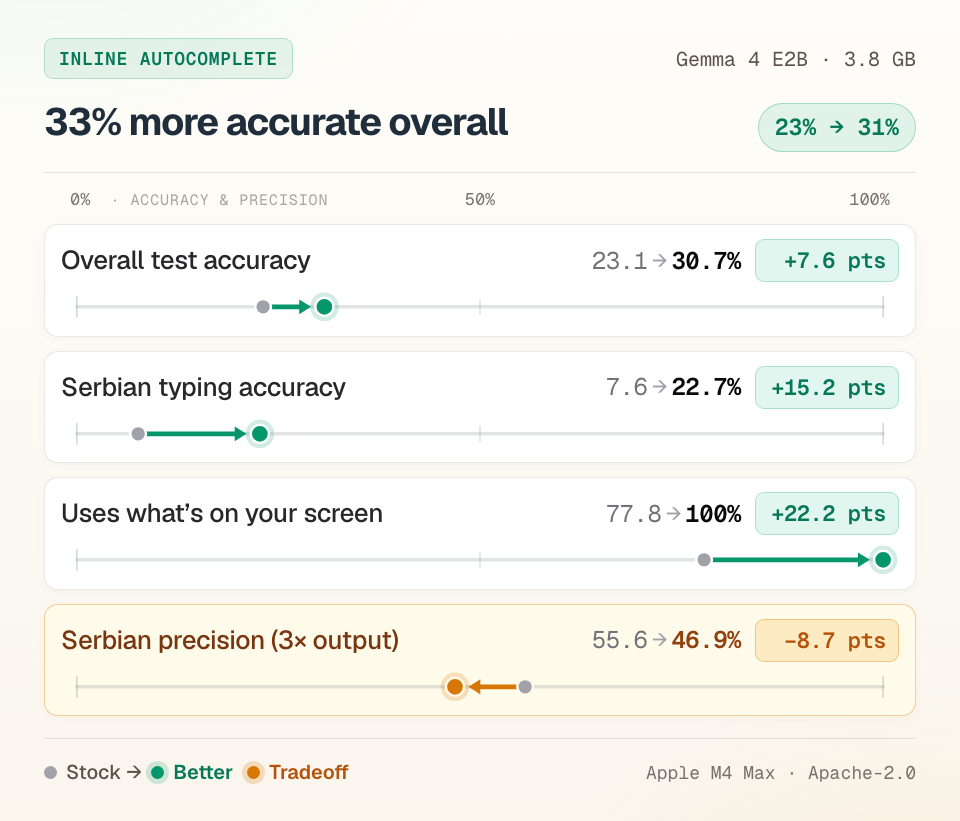
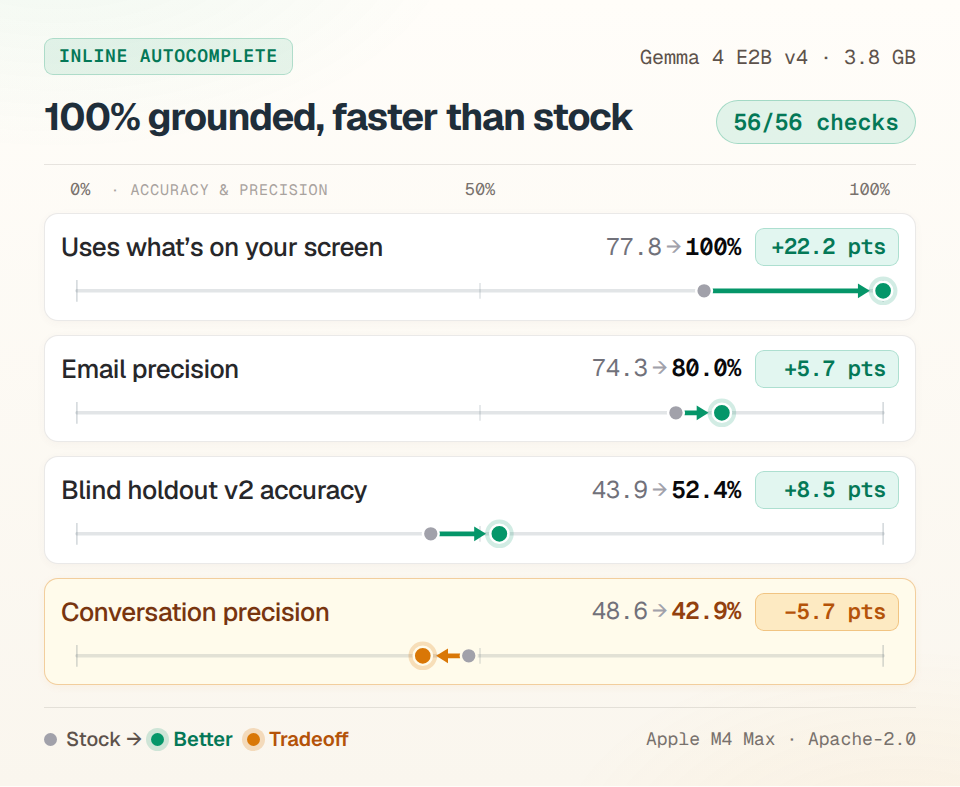
Update LokalBot 4-model fine-tuning post with new default checkpoints (#20)
* Update LokalBot 4-model fine-tuning post with Wave-3b defaults

* Update fine-tuning post and visuals for Qwen3.5 4B LokalBot v4

* Bump sitemap lastmod for fine-tuning post update

diff --git a/blog/posts/fine-tuning-lokalbot-local-models/index.html b/blog/posts/fine-tuning-lokalbot-local-models/index.html
@@ -4,7 +4,7 @@
     <meta charset="UTF-8" />
     <meta name="viewport" content="width=device-width, initial-scale=1.0" />
     <title>Fine-tuning LokalBot’s four local models in 24 hours · Field Notes</title>
-    <meta name="description" content="Stock open models struggled with Serbian notes, quiet dictation and inline autocomplete in LokalBot. I fine-tuned all four local models over a day and published the Apache-2.0 weights, along with what got worse." />
+    <meta name="description" content="Stock open models struggled with Serbian notes, quiet dictation and inline autocomplete in LokalBot. I fine-tuned all four, ran follow-up passes to fix the first round’s regressions, and promoted them to LokalBot’s new defaults." />
     <link rel="canonical" href="https://stevan.bogosavljevic.me/blog/posts/fine-tuning-lokalbot-local-models/" />
     <link rel="icon" type="image/svg+xml" href="/favicon.svg" />
     <link rel="preconnect" href="https://fonts.googleapis.com" />
@@ -12,7 +12,7 @@
     <link href="https://fonts.googleapis.com/css2?family=Google+Sans+Flex:opsz,wght@6..72,400..800&family=Newsreader:ital,opsz,wght@0,6..72,400;0,6..72,500;0,6..72,600;1,6..72,400;1,6..72,500&family=Red+Hat+Mono:wght@400;500&display=swap" rel="stylesheet" />
     <link rel="stylesheet" href="../../assets/blog.css" />
     <meta property="og:title" content="Fine-tuning LokalBot’s four local models in 24 hours" />
-    <meta property="og:description" content="Stock open models struggled with Serbian notes, quiet dictation and inline autocomplete in LokalBot. I fine-tuned all four local models over a day and published the Apache-2.0 weights." />
+    <meta property="og:description" content="Stock open models struggled with Serbian notes, quiet dictation and inline autocomplete. I fine-tuned all four, fixed the first round’s regressions, and promoted them to LokalBot’s new defaults." />
     <meta property="og:type" content="article" />
     <meta property="og:url" content="https://stevan.bogosavljevic.me/blog/posts/fine-tuning-lokalbot-local-models/" />
     <meta property="og:image" content="https://stevan.bogosavljevic.me/blog/posts/fine-tuning-lokalbot-local-models/og.jpg" />
@@ -60,9 +60,9 @@
     <main id="content">
       <section class="hero hero--post" aria-labelledby="post-title">
         <div class="hero-inner">
-          <p class="eyebrow">Nov 21, 2026 · AI · Engineering · 8 min read</p>
+          <p class="eyebrow">Nov 21, 2026 (updated Nov 22) · AI · Engineering · 9 min read</p>
           <h1 id="post-title" class="post-hero-title">Fine-tuning LokalBot’s four local models in 24 hours</h1>
-          <p class="hero-subtitle">Stock open models struggled with Serbian notes, quiet dictation and inline autocomplete. I fine-tuned all four over a day and published the weights, along with what got worse.</p>
+          <p class="hero-subtitle">Stock open models struggled with Serbian notes, quiet dictation and inline autocomplete. I fine-tuned all four, ran follow-up passes to fix the first round’s regressions, and promoted them to LokalBot’s new defaults.</p>
         </div>
       </section>
 
@@ -71,6 +71,7 @@
           <aside class="post-meta-card" aria-label="Post metadata">
             <div class="metadata">
               <span>Published Nov 21, 2026</span>
+              <span>Updated Nov 22, 2026</span>
               <span>AI · Engineering</span>
             </div>
             <div class="post-actions">
@@ -88,24 +89,24 @@
             <div class="example-box">
               <p><span class="example-label">Transcript (Serbian / Montenegrin Cyrillic)</span>Јелена: „Договорили смо се да у четвртак у 14:00 CET пустимо нову верзију на пет одсто саобраћаја, под условом да провјера поновног учитавања прође. Нећемо је пустити за викенд.”</p>
               <p><span class="example-label is-bad">Stock Qwen3.5 4B</span>Согласовано запуск новой версии на 5% трафика в четверг в 14:00 CET при условии проверки повторного загрузки, без запуска в выходные. Decisions came back as <code>None</code>, with 20 Russian-drift hits across the notes.</p>
-              <p><span class="example-label is-good">Qwen3.5-4B-LokalBot-v2</span>Пуштање нове верзије на 5% саобраћаја у четвртак у 14:00 CET, под условом да провјера поновног учитавања прође. Saved as a decision, with zero Russian drift.</p>
+              <p><span class="example-label is-good">Qwen3.5-4B-LokalBot-v2</span>Пуштање нове верзије на 5% саобраћаја у четвртак у 14:00 CET, под условом да провјера поновног учитавања прође. Saved as a decision, with zero Russian drift (<code>v4</code> keeps zero Russian drift and catches 8 decisions across the six replay fixtures).</p>
             </div>
 
-            <p>The other models had their own weak spots. Stock <code>Qwen3.5 4B</code> recalled 0 of 13 Serbian personal facts (translating them into English instead) and caught decisions on only 2 of 8 real decision-bearing meetings. Stock <code>Gemma 4 E2B</code> dropped from 25.3% autocomplete accuracy in English to 7.6% in Serbian Latin and 8.6% in Cyrillic, and sometimes suggested outdated saved facts over text that was right there in the active window. On 24 silence and room-noise clips carrying a custom vocabulary prompt (<code>Mila Novak, Orion Launch, Acme.</code>), stock <code>Qwen3-ASR 1.7B</code> echoed those names or invented words on 22 of them. And the smaller <code>0.6B</code> speech model hit 52.3% word error rate on South Slavic speech and 49.2% on mixed-language clips.</p>
+            <p>The other models had their own weak spots. Stock <code>Qwen3.5 4B</code> recalled 0 of 13 Serbian personal facts (translating them into English instead) and caught decisions on only 6 of 19 real decision-bearing meetings. Stock <code>Gemma 4 E2B</code> dropped from 25.3% autocomplete accuracy in English to 7.6% in Serbian Latin and 8.6% in Cyrillic, and sometimes suggested outdated saved facts over text that was right there in the active window. On 24 silence and room-noise clips carrying a custom vocabulary prompt (<code>Mila Novak, Orion Launch, Acme.</code>), stock <code>Qwen3-ASR 1.7B</code> echoed those names or invented words on 22 of them. And the smaller <code>0.6B</code> speech model hit 52.3% word error rate on South Slavic speech and 49.2% on mixed-language clips.</p>
 
-            <p>Over about 18.5 hours I fine-tuned all four models (<code>Qwen3.5 4B</code>, <code>Gemma 4 E2B</code>, <code>Qwen3-ASR 1.7B</code> and <code>Qwen3-ASR 0.6B</code>), uploaded the Apache-2.0 GGUFs to Hugging Face, and opened <a href="https://github.com/stevyhacker/LokalBot/pull/557">PR #557</a> and <a href="https://github.com/stevyhacker/LokalBot/pull/561">PR #561</a> to wire them into LokalBot. Think v2 and Gemma v3 are opt-in alongside the stock defaults, while PR #561 switches the default Transcribe pins.</p>
+            <p>Over an initial 18.5 hours I fine-tuned all four models (<code>Qwen3.5 4B</code>, <code>Gemma 4 E2B</code>, <code>Qwen3-ASR 1.7B</code> and <code>Qwen3-ASR 0.6B</code>) and uploaded the Apache-2.0 GGUFs to Hugging Face. At that point only the two speech models were ready to replace the defaults. Think <code>v2</code> triggered too many validator retries on noisy real meetings, and Autocomplete <code>v3</code> gave up two small saved-memory checks and some email precision. On Nov 22 I ran follow-up passes on Colab Pro+ GPUs to fix both (<code>Gemma 4 E2B v4</code> for autocomplete, then <code>Qwen3.5 4B v3</code> and <code>v4</code> after <code>v3</code> dropped too many real action items), and updated <a href="https://github.com/stevyhacker/LokalBot/pull/561">PR #561</a> (superseding <a href="https://github.com/stevyhacker/LokalBot/pull/557">#557</a>) to make all four the new built-in defaults, with a dismissible upgrade prompt for existing users still on the stock files.</p>
 
-            <p>Before training anything, I set a few constraints. Every training set had to use open-license data only (Apache-2.0, ODC-By, CC0 and CC-BY-4.0, plus synthetic examples from open-weight teachers), with no private user recordings or meetings, no CC-BY-SA, and no non-commercial datasets. Holdouts were frozen ahead of time and checked for n-gram and entity overlap. Most task-specific eval sets are self-built or synthetic alongside public splits from QMSum, FLEURS, VoxPopuli, ParlaSpeech-RS and AMI, and the 12 local real-meeting references come from a frontier model rather than human labels.</p>
+            <p>Before training anything, I set a few constraints. Every training set had to use open-license data only (Apache-2.0, ODC-By, CC0 and CC-BY-4.0, plus synthetic examples from open-weight teachers), with no private user recordings or meetings, no CC-BY-SA, and no non-commercial datasets. Holdouts were frozen ahead of time and checked for n-gram and entity overlap. Most task-specific eval sets are self-built or synthetic alongside public splits from QMSum, FLEURS, VoxPopuli, ParlaSpeech-RS and AMI, and the 28 local real-meeting references come from a frontier model rather than human labels.</p>
 
-            <p>All numbers below were measured on an Apple M4 Max through the real inference paths: LokalBot’s unmodified macOS Release binary for Gemma 4, Swift <code>MeetingNotesReplayTests</code> for the meeting replays, and harnesses hitting our vendored <code>llama.cpp v1.0.0</code> Metal server for memory retention, SparkX26 and ASR.</p>
+            <p>All numbers below went through LokalBot’s real inference paths and validators. Gemma 4 (LokalBot’s unmodified macOS Release binary) and both Qwen3-ASR models (vendored <code>llama.cpp v1.0.0</code> Metal server) were measured on an Apple M4 Max. For <code>Qwen3.5 4B</code> I ran the full stock, <code>v3</code> and <code>v4</code> comparison on the same Colab G4 GPU right after training, pointing LokalBot’s Swift <code>MeetingNotesReplayTests</code>, memory retention and SparkX26 harnesses at the same <code>llama.cpp</code> server build over an SSH tunnel so I could iterate on the expanded 28-meeting eval in minutes.</p>
 
             <h2>What got worse</h2>
 
-            <p>None of the four models is a pure upgrade on every axis. Before getting into the recipes, here are the regressions I kept and documented in each model card:</p>
+            <p>None of the four shipped defaults is a pure upgrade on every axis. Before getting into the recipes, here are the remaining tradeoffs documented in each model card:</p>
 
             <ul>
-              <li><code>Qwen3.5 4B v2</code> is more eager on noisy real-world transcripts, which triggers more quote-mismatch validator retries (72 rejections and 21 repairs vs. 40 and 19 for stock, and 33 and 10 for v1). On the 12 local meetings, stock still has higher action recall against the frontier reference (50.0% vs. 47.1%), v1 resolves a higher share of owners (75.8% vs. 67.4%), and v2 outputs 24 decisions and 95 actions against 19 and 70 in the reference, so it over-extracts a bit. On SparkX26 it passes 8/12 cases vs. 7/12 for stock, but scores 36/43 individual fields vs. 37/43.</li>
-              <li><code>Gemma 4 E2B v3</code> drops Serbian Latin precision from 55.6% to 46.9% as coverage climbs from 13.6% to 48.5%. Median boundary latency goes from 20.6 ms to 26.6 ms (typing p95 improves from 95.6 ms to 87.2 ms). Email precision recovers from 59.5% in v2 to 70.7% in v3, still short of stock’s 74.3%, even though email accuracy rises from 50.0% to 55.8%. Two tiny memory checks (<code>memory_dev</code> at 5/6 and <code>memory_rel_heldout</code> at 4/5) remain one conservative abstention below stock, with zero false retrievals and 12/12 on <code>memory_heldout</code>.</li>
+              <li><code>Qwen3.5 4B v4</code> fixed <code>v3</code>’s action-item collapse on real meetings (0 zero-action collapses vs. 6 in <code>v3</code>, lifting 28-meeting action recall to 52.7% vs. 46.7% for stock and 31.3% for <code>v3</code>), kept 19/19 decision-bearing meetings, cut validator rejections by 62% vs. stock (71 vs. 185), and ran 30% faster (11.8 s vs. 17.0 s median on G4). The tradeoffs compared with <code>v3</code> come from saving more actions: <code>v4</code> emits 227 actions at 37.0% precision (level with stock’s 37.1%, down from <code>v3</code>’s 45.9% when it only saved 109), picks up 1 validator rejection on Golden6 (vs. 0 in <code>v3</code> and 3 in stock), and gives up 1 point on English memory retention (117/120 overall vs. 118/120 in <code>v3</code>, while reaching 13/13 on Serbian).</li>
+              <li><code>Gemma 4 E2B v4</code> restored 56/56 across all memory and visible-context suites, lifted email precision to 80.0% (vs. 74.3% stock), kept wrong suggestions flat at 182 (vs. 181 stock), and ran faster than stock (20.2 ms median boundary, 80.0 ms typing p95). Tradeoffs: conversation precision drops from 48.6% to 42.9%, formatting precision from 61.5% to 57.1%, and overall coverage stays close to stock (48.4% vs. 58.6% in <code>v3</code>), so short-prompt Serbian recall on the Engine set is lower than in <code>v3</code> (12.1% vs. 22.7%, though <code>v4</code> beats <code>v3</code> on blind <code>fresh_holdout_v1</code> Serbian Latin at 76.7% vs. 73.3%). Both <code>v4</code> and <code>v3</code> stay in the Hugging Face repo.</li>
               <li><code>Qwen3-ASR 1.7B v3</code> returns empty transcripts on 2 of 200 very low-SNR far-field AMI-400 SDM clips (stock returns 0/200 empty). Word error rate across the five evaluated guard languages (<code>en/de/fr/es/ru</code>) ticks up 0.18 points (4.35% to 4.53%). Because AMI SDM train is in the training mix, the −1.67 point gain on AMI-400 SDM is in-domain.</li>
               <li><code>Qwen3-ASR 0.6B v1</code> regresses on the small 25-clip AMI holdout (+2.54 points close-mic, +0.58 far-field) before coming out slightly ahead on the 8× larger 400-clip AMI suite (−0.15 and −0.34 points, with 1/200 empty far-field). On AMI-400 it runs at the same speed as stock (51.3× vs. 51.9× real-time); the faster 52.7× vs. 39.7× number on holdout mostly comes from shorter outputs once the South Slavic script drift stopped.</li>
             </ul>
@@ -122,18 +123,22 @@
 
             <figure class="scorecard-fig">
               <a href="scorecard-think.png" title="Open full size">
-                <img src="scorecard-think.png" alt="Qwen3.5 4B fine-tune vs. stock on Apple M4 Max: personal facts kept right up from 66.7% to 95.8%, Serbian facts recalled 0% to 92.3%, meetings with decisions caught 25% to 100%, with action items caught on real meetings dipping from 50.0% to 47.1%." width="960" height="821" loading="lazy" decoding="async" />
+                <img src="scorecard-think.png" alt="Qwen3.5 4B v4 fine-tune vs. stock on the same llama.cpp build: personal facts kept right up from 69.2% to 97.5%, Serbian facts recalled 0% to 100%, meetings with decisions caught 31.6% to 100%, and action items caught on 28 real meetings up from 46.7% to 52.7%." width="960" height="821" loading="lazy" decoding="async" />
               </a>
-              <figcaption>Qwen3.5 4B LokalBot v2 vs. stock on Apple M4 Max. Three main gains in green and one regression in amber on a 0–100% scale.</figcaption>
+              <figcaption>Qwen3.5 4B LokalBot v4 vs. stock on the same Colab G4 llama.cpp server and Swift MeetingNotesReplayTests harness. Across the 28 real meetings, v4 also cut validator rejections from 185 to 71, finished 28/28 (stock timed out on 1), and cut median latency from 17.0 s to 11.8 s.</figcaption>
             </figure>
 
             <p>LokalBot’s Think tasks want two things that usually fight each other in a 4B model: enough judgment to decide which facts are worth saving and keep Serbian Cyrillic out of Russian, and fast JSON extraction with no chain-of-thought tokens at runtime.</p>
 
-            <p>To get both, I ran <code>Qwen3.6-35B-A3B</code> (<code>UD-Q4_K_XL</code>, Apache-2.0) with <code>enable_thinking=True</code> so the 35B MoE teacher could reason through each example, then checked every output with LokalBot’s schema, verbatim-quote and grounding validators. Only outputs that passed became direct <code>enable_thinking=False</code> training targets for the 4B student. The v2 set had 1,067 verified examples (1,014 train, 53 val) mixing <code>pszemraj/qmsum-cleaned</code> (excluding the AMI eval series), synthetic English and Serbian meetings, repair traces, Personal Context memory and hard negatives, Day Digest segments, multi-step Ask tool calls, and 180 general instruction rows from <code>allenai/tulu-3-sft-mixture</code> (ODC-By).</p>
+            <p>To get both, I ran <code>Qwen3.6-35B-A3B</code> (<code>UD-Q4_K_XL</code>, Apache-2.0) with <code>enable_thinking=True</code> so the 35B MoE teacher could reason through each example, then checked every output with LokalBot’s schema, verbatim-quote and grounding validators. Only outputs that passed became direct <code>enable_thinking=False</code> training targets for the 4B student. Qwen3.5 mixes regular attention layers with Gated DeltaNet linear-attention layers, so I attached bf16 LoRA (<code>r=32</code>, <code>alpha=64</code>, <code>lr=1.0e-4</code>, 2 epochs) to all 248 <code>language_model</code> linear projections, including DeltaNet’s <code>in_proj_qkv/z/a/b</code> and <code>out_proj</code>, leaving the vision tower untouched.</p>
 
-            <p>Qwen3.5 mixes regular attention layers with Gated DeltaNet linear-attention layers, so I attached bf16 LoRA (<code>r=32</code>, <code>alpha=64</code>, <code>lr=1.0e-4</code>, 2 epochs) to all 248 <code>language_model</code> linear projections, including DeltaNet’s <code>in_proj_qkv/z/a/b</code> and <code>out_proj</code>, leaving the vision tower untouched. After merging in fp32, converting to F16 GGUF, and running a 64-chunk bilingual imatrix (English, Serbian Latin and Cyrillic, plus LokalBot JSON), <code>Q4_K_M</code> came out to <code>2,741,241,920</code> bytes, the exact same byte count as stock.</p>
+            <p>The first pass (<code>v1</code>) fixed decisions (3/6 to 6/6 on Golden6, 2/8 to 8/8 on real meetings), Serbian memory recall (0/13 to 12/13) and Russian drift (20 to 0), but got timid on multi-speaker action items (27 down to 17 on Golden6) and saved 7 unwanted English memory items. For <code>v2</code> (1,067 rows) I added 78 action-dense meetings and 65 hard-negative memory rows. Memory retention climbed to 115/120 (95.8%, 1 unwanted), English useful recall hit 94.2%, and Golden6 actions recovered to 34. On the 12 noisy real meetings, though, <code>v2</code> hit 72 validator rejections and 21 repair calls (up from 40 and 19 for stock).</p>
 
-            <p>The first pass (<code>v1</code>) fixed decisions (3/6 to 6/6 on Golden6, 2/8 to 8/8 on real meetings), Serbian memory recall (0/13 to 12/13) and Russian drift (20 to 0), but it got timid on multi-speaker action items (27 down to 17 on Golden6) and saved 7 unwanted English memory items. For <code>v2</code> I added 78 action-dense meetings and 65 hard-negative memory rows. Memory retention climbed to 115/120 (95.8%, 1 unwanted item), English useful recall hit 94.2% (above stock <code>Qwen3.5 9B</code>’s 71.2%), and Golden6 actions recovered to 34, with the higher retry rate on noisy meetings noted above. Both checkpoints live on <a href="https://huggingface.co/stevyhacker/Qwen3.5-4B-LokalBot-GGUF">Hugging Face</a>.</p>
+            <p>Checking the training code turned up four specific bugs behind those 72 rejections. The repair training prompt used plain bullet text while LokalBot’s Swift recovery loop sends JSON <code>Validation feedback:</code>, so <code>v2</code> had never seen the real repair format. When the teacher paraphrased a quote, the distillation script fell back to pasting the entire turn. Synthetic meetings forced 5 to 7 actions each and included non-English questions marked as commitments, which LokalBot’s validator always rejects. And an over-strict Cyrillic filter had left only 3 Serbian Cyrillic meetings in <code>v2</code>.</p>
+
+            <p>For <code>v3</code> I compiled LokalBot’s production Swift evidence validator into a standalone CLI and ran every distilled meeting and repair trace through it, raising <code>max_length</code> to 10,240 and rebuilding the dataset with 122 Serbian Cyrillic meetings and 220 real on-policy JSON repair traces (including one-call <code>basis="unclear"</code> exits). My first <code>v3</code> run swung too far toward silence (12.9% real-meeting action recall) because 42.7% of the long QMSum chunks were empty and a script bug wiped valid actions on zero-action bands. Fixing that bug and balancing long chunks (1,870 Swift-verified rows) followed by an fp32 merge at <code>scale=0.85</code> got <code>v3</code> to 118/120 memory retention, zero rejections on Golden6, and an 85% drop in validator rejections on the 12 real meetings. Action recall on real meetings was still way below stock, though: 31.3% vs. 46.7% once I expanded the private real-meeting eval from 12 to 28 meetings, with <code>v3</code> returning zero actions on 6 actionable meetings.</p>
+
+            <p>Inspecting those 6 zero-action meetings showed a simple distribution mismatch. Every synthetic meeting in <code>v3</code> had a confirmed <code>me</code> speaker and named aliases like <code>Ana</code> and <code>Marko</code>. Most real recorded meetings in LokalBot use generic diarized labels (<code>them</code>, <code>them 1..8</code>, <code>them unclear</code>, <code>local</code>, <code>local 1..3</code>, <code>local unclear</code>) and often have no confirmed <code>me</code> speaker at all. Paired with too many empty training chunks, <code>v3</code> had learned to emit <code>actions: []</code> whenever the speaker roster looked generic. For <code>v4</code> I doubled the Swift-verified dataset to 4,117 rows (2,005 meetings with 9,192 verified actions and a 1.4% zero-action rate, including 487 unnamed no-<code>me</code> diarized meetings, 727 long chunks over 6,000 characters, and 232 Serbian Cyrillic meetings with zero empty rows, plus 240 Swift repair traces, 964 memory rows, 338 Ask tool traces, 170 Day Digest rows and 400 Tulu-3 replay rows) and trained on a Colab G4 GPU (<code>r=32</code>, <code>alpha=64</code>, <code>dropout=0.10</code>, <code>weight_decay=0.05</code>, <code>lr=6.0e-5</code>, 1.5 epochs) with an fp32 merge at <code>scale=1.0</code> and a 64-chunk bilingual EN/SR/JSON imatrix (<code>Qwen3.5-4B-LokalBot-v4-Q4_K_M.gguf</code>, <code>2,741,241,952</code> bytes). On the 28-meeting eval, <code>v4</code> jumped to 52.7% action recall (79/150 vs. 46.7% stock and 31.3% <code>v3</code>, and 54.3% vs. 51.4% stock on the original 12-meeting slice) with zero empty-action collapses, 28/28 completed (stock timed out on 1), 19/19 decision meetings, 71 rejections (vs. 185 stock), and 11.8 s median latency (vs. 17.0 s stock). Memory retention stayed at 117/120 (50/52 English, 13/13 Serbian with 0 unwanted), SparkX26 held at 9/12 (39/43 fields, 6/6 tools, multi-step intact), and Golden6 finished with 8 decisions and zero Russian drift. All four checkpoints live on <a href="https://huggingface.co/stevyhacker/Qwen3.5-4B-LokalBot-GGUF">Hugging Face</a>.</p>
 
             <details>
               <summary>See the full Qwen3.5 4B numbers</summary>
@@ -141,56 +146,62 @@
                 <table>
                   <thead>
                     <tr>
-                      <th>Suite (Apple M4 Max · <code>llama-server v1.0.0</code>)</th>
+                      <th>Suite (Colab G4 · <code>llama-server</code>)</th>
                       <th class="num">Stock 4B</th>
-                      <th class="num">LokalBot v2</th>
-                      <th class="num">Change</th>
+                      <th class="num">LokalBot v3</th>
+                      <th class="num">LokalBot v4</th>
+                      <th class="num">v4 vs. Stock</th>
                     </tr>
                   </thead>
                   <tbody>
                     <tr>
-                      <td>Memory Retention — English (96 cases, 52 gold)</td>
-                      <td class="num">70/96 (53.8% recall, 3 unwanted)</td>
-                      <td class="num">92/96 (94.2% recall, 1 unwanted)</td>
-                      <td class="num">+22.9 pp (+40.4 pp recall)</td>
+                      <td>Memory Retention (English, 96 cases, 52 gold)</td>
+                      <td class="num">73/96 (59.6% rec, 3 unw)</td>
+                      <td class="num">95/96 (100% rec, 1 unw)</td>
+                      <td class="num">93/96 (96.2% rec, 1 unw)</td>
+                      <td class="num">+20.8 pp (+36.5 pp rec)</td>
                     </tr>
                     <tr>
-                      <td>Memory Retention — Serbian (24 cases, 13 gold)</td>
-                      <td class="num">10/24 (0/13 recall, 9 unwanted)</td>
-                      <td class="num">23/24 (12/13 recall, 0 unwanted)</td>
-                      <td class="num">+92.3 pp recall</td>
+                      <td>Memory Retention (Serbian, 24 cases, 13 gold)</td>
+                      <td class="num">10/24 (0/13 rec, 9 unw)</td>
+                      <td class="num">23/24 (12/13 rec, 0 unw)</td>
+                      <td class="num">24/24 (13/13 rec, 0 unw)</td>
+                      <td class="num">+100 pp rec (24/24)</td>
                     </tr>
                     <tr>
                       <td>SparkX26 Guard (12 JSON / 43 fields · 6 tools)</td>
-                      <td class="num">7/12 (37/43) · 6/6 · 0.58 s</td>
-                      <td class="num">8/12 (36/43) · 6/6 · 0.52 s</td>
-                      <td class="num">+1 JSON (−1 field)</td>
+                      <td class="num">8/12 (38/43) · 6/6 · 0.18 s</td>
+                      <td class="num">9/12 (39/43) · 6/6 · 0.14 s</td>
+                      <td class="num">9/12 (39/43) · 6/6 · 0.14 s</td>
+                      <td class="num">+1 JSON (+1 field)</td>
                     </tr>
                     <tr>
                       <td>Golden6 Swift Replay (6 synthetic meetings)</td>
-                      <td class="num">27 act · 3/6 dec · 20 RU · 10.4 s</td>
-                      <td class="num">34 act · 6/6 dec · 0 RU · 9.8 s</td>
-                      <td class="num">+7 actions, 0 drift</td>
+                      <td class="num">31 act · 5 dec · 3 rej · 16 RU · 5.4 s</td>
+                      <td class="num">32 act · 7 dec · 0 rej · 0 RU · 3.8 s</td>
+                      <td class="num">29 act · 8 dec · 1 rej · 0 RU · 3.7 s</td>
+                      <td class="num">+3 dec, 0 drift</td>
                     </tr>
                     <tr>
-                      <td>12 Real Meetings (frontier ref: 19 dec / 8 mtgs, 70 act)</td>
-                      <td class="num">5 dec (2/8) · 50.0% rec · 33.1 s</td>
-                      <td class="num">24 dec (8/8) · 47.1% rec · 32.3 s</td>
-                      <td class="num">8/8 dec; 72 vs 40 retries</td>
+                      <td>28 Real Meetings (19 dec mtgs, 150 ref act)</td>
+                      <td class="num">27/28 · 6/19 dec · 46.7% rec · 185 rej · 17.0 s</td>
+                      <td class="num">28/28 · 19/19 dec · 31.3% rec (6 zero) · 27 rej · 9.5 s</td>
+                      <td class="num">28/28 · 19/19 dec · 52.7% rec (0 zero) · 71 rej · 11.8 s</td>
+                      <td class="num">+6.0 pp rec, 19/19 dec, −62% rej</td>
                     </tr>
                   </tbody>
                 </table>
               </div>
-              <p class="table-note">Full stock / v1 / v2 table and SHA-256 checksums are in <a href="https://huggingface.co/stevyhacker/Qwen3.5-4B-LokalBot-GGUF"><code>stevyhacker/Qwen3.5-4B-LokalBot-GGUF</code></a>.</p>
+              <p class="table-note">On the original 12-meeting subset (70 ref actions), action recall is 54.3% (38/70) for v4 vs. 51.4% (36/70) for stock and 31.4% (22/70) for v3. Full tables and SHA-256 checksums are in <a href="https://huggingface.co/stevyhacker/Qwen3.5-4B-LokalBot-GGUF"><code>stevyhacker/Qwen3.5-4B-LokalBot-GGUF</code></a>.</p>
             </details>
 
             <h2>Autocomplete: Gemma 4 E2B</h2>
 
             <figure class="scorecard-fig">
               <a href="scorecard-autocomplete.png" title="Open full size">
-                <img src="scorecard-autocomplete.png" alt="Gemma 4 E2B fine-tune vs. stock on Apple M4 Max: overall test accuracy up from 23.1% to 30.7%, Serbian typing accuracy 7.6% to 22.7%, active-window grounding 77.8% to 100%, with Serbian precision dipping from 55.6% to 46.9% as output tripled." width="960" height="821" loading="lazy" decoding="async" />
+                <img src="scorecard-autocomplete.png" alt="Gemma 4 E2B v4 fine-tune vs. stock on Apple M4 Max: screen grounding up from 77.8% to 100% (56/56 across all memory and visible-context checks), email precision 74.3% to 80.0%, blind holdout v2 accuracy 43.9% to 52.4%, with conversation precision dipping from 48.6% to 42.9%." width="960" height="787" loading="lazy" decoding="async" />
               </a>
-              <figcaption>Gemma 4 E2B LokalBot v3 vs. stock through LokalBot’s macOS Release binary.</figcaption>
+              <figcaption>Gemma 4 E2B LokalBot v4 (default) vs. stock through LokalBot’s macOS Release binary. Overall Engine accuracy moves from 23.1% to 25.3% (+17 right for +1 wrong shown) at 20.2 ms median boundary latency.</figcaption>
             </figure>
 
             <p>Inline autocomplete only shows a suggestion when the top token crosses a confidence threshold. Plain SFT makes logits sharper everywhere, which makes the model overconfident and floods the editor with bad guesses.</p>
@@ -201,7 +212,9 @@
 
             <p>I then had Claude Opus compare 50 randomized dev pairs where <code>v2-PLE</code> and stock differed, without model labels. It preferred <code>v2-PLE</code> overall (27 to 9, with 14 ties; 22–5–5 under production gates), but kept pointing out bad email completions. Checking the benchmark showed email precision had dropped from 74.3% to 59.5%, and two small memory sets had slipped by one case each.</p>
 
-            <p>Printing a few raw rows from the v2 training file showed why. The <code>email_calib_kl_en</code> slice had pulled in raw FineWeb pages with no spam filter, so SEO and adult spam starting with <code>Subject:</code> had poisoned email calibration. On top of that, the training mix had 681 <code>Visible + Memory</code> override rows against only 126 standalone <code>Memory-only</code> rows (a 5.4× skew). For <code>v3</code> I dropped 309 bad rows, added 750 clean <code>Subject:</code> anchors, 650 standalone memory recall rows, 250 memory distractor anchors and 400 Serbian calibration rows, raised ungrounded KL from 0.45 to 0.52, and quantized with a bilingual EN/SR imatrix at merge scale 1.15. By step 1,156 all five validation buckets improved top-1 accuracy and lowered confident-wrong rate while holding Serbian Latin mean top-1 probability steady at stock’s 0.538. Email rose to 55.77% accuracy and 70.7% precision, while the two small memory sets stayed one abstention below stock. Weights live in <a href="https://huggingface.co/stevyhacker/Gemma-4-E2B-LokalBot-GGUF"><code>stevyhacker/Gemma-4-E2B-LokalBot-GGUF</code></a>.</p>
+            <p>Printing a few raw rows from the v2 training file showed why. The <code>email_calib_kl_en</code> slice had pulled in raw FineWeb pages with no spam filter, so SEO and adult spam starting with <code>Subject:</code> had poisoned email calibration. On top of that, the training mix had 681 <code>Visible + Memory</code> override rows against only 126 standalone <code>Memory-only</code> rows (a 5.4× skew). For <code>v3</code> I dropped 309 bad rows, added 750 clean <code>Subject:</code> anchors, 650 standalone memory recall rows, 250 memory distractor anchors and 400 Serbian calibration rows, raised ungrounded KL from 0.45 to 0.52, and quantized with a bilingual EN/SR imatrix at merge scale 1.15. Engine accuracy climbed to 30.71% (22.7% Serbian Latin, 82.5% on <code>fresh_holdout_v1</code>) and email recovered to 55.77% accuracy and 70.7% precision, but wrong suggestions rose from 181 to 220 and two small memory sets stayed one abstention below stock (24/26).</p>
+
+            <p>Looking into why <code>v3</code> still missed those memory cases caught two trainer bugs: bodies under 20 tokens were silently dropped (818 targeted rows lost), and the first 4 to 16 body tokens were masked from both cross-entropy and KL, leaving early sentence positions unanchored. For <code>v4</code> I dropped the prefaced minimum length to 6 tokens, ran Forward KL from body token 0 on every row, replaced the chatty synthetic memory templates with diverse <code>kl_only=True</code> standalone memory and short chat/formatting anchors, and kept early unprefaced tokens on the blended 26B teacher (an intermediate run anchored them strictly to stock E2B and pulled short-prompt recall down too far). Merging at <code>scale=1.0</code> without temperature folding (testing <code>T=1.1</code> after verifying Gemma 4’s multiplicative RMSNorm scale math hurt precision) produced the default-safe <code>v4</code> checkpoint: 56/56 across all memory and visible-context suites, 80.0% email precision, 25.25% overall Engine accuracy and 52.23% precision with 199 right and 182 wrong (vs. 182 right and 181 wrong for stock), 76.7% on blind <code>fresh_holdout_v1</code> Serbian Latin, 52.4% vs. 43.9% on a newly minted 82-case <code>fresh_holdout_v2</code>, and faster latency than stock (20.2 ms median / 80.0 ms typing p95). LokalBot now defaults to <code>v4</code>; <code>v3</code> stays in <a href="https://huggingface.co/stevyhacker/Gemma-4-E2B-LokalBot-GGUF"><code>stevyhacker/Gemma-4-E2B-LokalBot-GGUF</code></a> if you prefer higher completion volume over stock-level restraint.</p>
 
             <details>
               <summary>See the full Gemma 4 E2B numbers</summary>
@@ -211,7 +224,7 @@
                     <tr>
                       <th>Benchmark (LokalBot macOS Release binary)</th>
                       <th class="num">Stock i1-Q6_K</th>
-                      <th class="num">v3 (scale 1.15, biling)</th>
+                      <th class="num">v4 (default, s=1.0)</th>
                       <th class="num">Change</th>
                     </tr>
                   </thead>
@@ -219,38 +232,32 @@
                     <tr>
                       <td>Engine Overall (788 checkpoints) acc / prec</td>
                       <td class="num">23.10% / 50.1%</td>
-                      <td class="num">30.71% / 52.4%</td>
-                      <td class="num">+7.61 / +2.24 pp</td>
+                      <td class="num">25.25% / 52.2%</td>
+                      <td class="num">+2.15 / +2.09 pp</td>
+                    </tr>
+                    <tr>
+                      <td>Engine Correct / Wrong shown</td>
+                      <td class="num">182 / 181</td>
+                      <td class="num">199 / 182</td>
+                      <td class="num">+17 right / +1 wrong</td>
                     </tr>
                     <tr>
                       <td>Email (52) acc / prec</td>
                       <td class="num">50.00% / 74.3%</td>
-                      <td class="num">55.77% / 70.7%</td>
-                      <td class="num">+5.77 pp acc (−3.6 pp prec)</td>
+                      <td class="num">53.85% / 80.0%</td>
+                      <td class="num">+3.85 / +5.7 pp</td>
                     </tr>
                     <tr>
-                      <td>Long-Context (47) acc / prec</td>
-                      <td class="num">19.15% / 33.3%</td>
-                      <td class="num">31.91% / 41.7%</td>
-                      <td class="num">+12.76 / +8.4 pp</td>
-                    </tr>
-                    <tr>
-                      <td>Serbian Latin (66) acc / prec</td>
-                      <td class="num">7.58% / 55.6%</td>
-                      <td class="num">22.73% / 46.9%</td>
-                      <td class="num">3.0× acc (−8.7 pp prec)</td>
-                    </tr>
-                    <tr>
-                      <td>Serbian Cyrillic (58) acc / prec</td>
-                      <td class="num">8.62% / 38.5%</td>
-                      <td class="num">18.97% / 40.7%</td>
-                      <td class="num">2.2× acc (+2.2 pp prec)</td>
+                      <td>Serbian Latin (66) · Cyrillic (58) acc</td>
+                      <td class="num">7.58% · 8.62%</td>
+                      <td class="num">12.12% · 13.79%</td>
+                      <td class="num">1.6× · 1.6× (v3: 3.0× / 2.2×)</td>
                     </tr>
                     <tr>
                       <td>Multilingual (40) · Heldout Midword (288)</td>
                       <td class="num">35.0% · 52.78%</td>
-                      <td class="num">50.0% · 54.86%</td>
-                      <td class="num">+15.0 · +2.08 pp</td>
+                      <td class="num">42.5% · 53.82% (68.9% prec)</td>
+                      <td class="num">+7.5 · +1.04 pp</td>
                     </tr>
                     <tr>
                       <td>Visible Context Dev (8) / Heldout (18) / Link (4)</td>
@@ -261,25 +268,31 @@
                     <tr>
                       <td>Memory Heldout (12) / Dev (6) / Relevance (5)</td>
                       <td class="num">12/12 · 6/6 · 5/5</td>
-                      <td class="num">12/12 · 5/6 · 4/5</td>
-                      <td class="num">−1 dev / −1 rel (0 false)</td>
+                      <td class="num">12/12 · 6/6 · 5/5</td>
+                      <td class="num">56/56 total (0 regressions)</td>
                     </tr>
                     <tr>
-                      <td>Frozen Blind Holdout (160 cases)</td>
-                      <td class="num">73.13% (84.8% prec, 11 forbidden)</td>
-                      <td class="num">82.50% (90.4% prec, 1 forbidden)</td>
-                      <td class="num">+9.37 pp (14/14 stale)</td>
+                      <td>Blind <code>fresh_holdout_v1</code> (160) · SR-Latn (30)</td>
+                      <td class="num">73.12% · 70.0%</td>
+                      <td class="num">78.75% · 76.7% (2 forb)</td>
+                      <td class="num">+5.63 · +6.7 pp</td>
+                    </tr>
+                    <tr>
+                      <td>Blind <code>fresh_holdout_v2</code> (82 fresh cases)</td>
+                      <td class="num">43.90% (87.8% prec, 1 forb)</td>
+                      <td class="num">52.44% (89.6% prec, 1 forb)</td>
+                      <td class="num">+8.54 pp</td>
                     </tr>
                     <tr>
                       <td>Latency (M4 Max) boundary med / typing p95</td>
-                      <td class="num">20.6 ms / 95.6 ms</td>
-                      <td class="num">26.6 ms / 87.2 ms</td>
-                      <td class="num">+6.0 ms med / −8.4 ms p95</td>
+                      <td class="num">21.2 ms / 103.5 ms</td>
+                      <td class="num">20.2 ms / 80.0 ms</td>
+                      <td class="num">−1.0 ms med / −23.5 ms p95</td>
                     </tr>
                   </tbody>
                 </table>
               </div>
-              <p class="table-note">Full stock / v1 / v2-PLE / v3 progression is in <a href="https://huggingface.co/stevyhacker/Gemma-4-E2B-LokalBot-GGUF"><code>stevyhacker/Gemma-4-E2B-LokalBot-GGUF</code></a>.</p>
+              <p class="table-note">Full stock / v2-PLE / v3 / v4 progression is in <a href="https://huggingface.co/stevyhacker/Gemma-4-E2B-LokalBot-GGUF"><code>stevyhacker/Gemma-4-E2B-LokalBot-GGUF</code></a>.</p>
             </details>
 
             <h2>Speech: Qwen3-ASR 1.7B and 0.6B</h2>
@@ -429,24 +442,25 @@
 
             <ul>
               <li>Check the exact LoRA target names for the architecture instead of copying <code>q_proj</code> and <code>v_proj</code>. On Qwen3.5 that meant including the Gated DeltaNet projections, on Gemma 4 E2B skipping KV-shared layers 15–34 and adding the 70 PLE matrices, and on Qwen3-ASR 1.7B unlocking the top four <code>audio_tower</code> layers at a lower learning rate.</li>
+              <li>Put the app’s real validator in the distillation loop. Compiling LokalBot’s Swift validator and feeding on-policy JSON repair traces cut real-meeting validator rejections from 185 (stock) down to 71 across 28 real meetings while keeping action recall above stock.</li>
               <li>Distill larger or thinking models into small fast students when you can’t afford thinking tokens or big weights at runtime. <code>Qwen3.6-35B-A3B</code> into non-thinking <code>Qwen3.5 4B</code> and <code>Gemma-4-26B-A4B</code> soft-logit KL into <code>Gemma 4 E2B</code> gave most of the quality gain with no extra latency.</li>
-              <li>Sweep LoRA merge scales (<code>0.75, 0.9, 1.0, 1.15</code>) and calibrate a bilingual imatrix locally on the Mac before touching the blind holdout. Each merge takes about a minute, costs nothing in GPU time, and usually finds another point or two on dev.</li>
-              <li>Print raw training rows when a slice looks off. That caught the FineWeb spam in Gemma’s email anchors immediately, and the two blind v2 pairwise checks pointed straight at what to fix in v3.</li>
+              <li>Sweep LoRA merge scales (<code>0.75, 0.85, 1.0, 1.15</code>) and calibrate a bilingual imatrix before touching the blind holdout. Each merge takes about a minute, costs almost nothing, and usually finds another point or two on dev.</li>
+              <li>Print raw training rows, dropped-row counts and speaker-roster distributions when a slice looks off. That caught the FineWeb spam in Gemma’s email anchors, the 818 dropped short bodies in Gemma <code>v3</code>, the empty-chunk over-correction in Think <code>v3</code>, and the missing unnamed-speaker transcripts behind <code>v3</code>’s action-item drop.</li>
               <li>Check the boring GPU plumbing early. Marketplace ingress charges ($0.02/GB on 15 GB of audio streams), low-RAM containers killing data loaders, a stale CUDA 12.6 host driver silently falling back to CPU, and my laptop disk filling up during temporary bf16 GGUF writes all cost more time than picking a learning rate.</li>
             </ul>
 
             <h2>Try the models</h2>
 
-            <p>In LokalBot, open <strong>Settings → Models → Browse Hugging Face</strong> and search <code>stevyhacker/</code>, or follow the open catalog PRs (<a href="https://github.com/stevyhacker/LokalBot/pull/557">#557</a> and <a href="https://github.com/stevyhacker/LokalBot/pull/561">#561</a>). You can also run any of the GGUFs directly with <code>llama.cpp</code>:</p>
+            <p>In LokalBot, <a href="https://github.com/stevyhacker/LokalBot/pull/561">PR #561</a> makes all four fine-tunes the new built-in defaults (with an in-app upgrade prompt if you are still on the previous stock files), or you can grab any checkpoint under <strong>Settings → Models → Browse Hugging Face</strong> by searching <code>stevyhacker/</code>. You can also run any of the GGUFs directly with <code>llama.cpp</code>:</p>
 
-            <pre><code># Think (Qwen3.5-4B-LokalBot-v2, non-thinking mode)
+            <pre><code># Think (Qwen3.5-4B-LokalBot-v4, non-thinking mode)
 llama-server \
-  -m Qwen3.5-4B-LokalBot-v2-Q4_K_M.gguf \
+  -m Qwen3.5-4B-LokalBot-v4-Q4_K_M.gguf \
   -c 32768 -ngl 99 --jinja --reasoning on --port 8080
 
-# Autocomplete (Gemma-4-E2B-LokalBot-v3)
+# Autocomplete (Gemma-4-E2B-LokalBot-v4)
 llama-server \
-  -m Gemma-4-E2B-LokalBot-v3-i1-Q6_K.gguf \
+  -m Gemma-4-E2B-LokalBot-v4-i1-Q6_K.gguf \
   -c 4096 -ngl 99 --port 8081
 
 # Transcribe 1.7B (Qwen3-ASR-1.7B-LokalBot-v3 + paired v3 mmproj)
@@ -479,6 +493,6 @@ LLAMA_MEDIA_MARKER="&lt;__media__&gt;" llama-server \
       </div>
     </footer>
 
-    <script type="application/ld+json">{"@context":"https://schema.org","@type":"BlogPosting","headline":"Fine-tuning LokalBot’s four local models in 24 hours","description":"Stock open models struggled with Serbian notes, quiet dictation and inline autocomplete in LokalBot. I fine-tuned all four local models over a day and published the Apache-2.0 weights, along with what got worse.","datePublished":"2026-11-21","author":{"@type":"Person","name":"Stevan Bogosavljević"},"image":"https://stevan.bogosavljevic.me/blog/posts/fine-tuning-lokalbot-local-models/og.jpg","mainEntityOfPage":"https://stevan.bogosavljevic.me/blog/posts/fine-tuning-lokalbot-local-models/","url":"https://stevan.bogosavljevic.me/blog/posts/fine-tuning-lokalbot-local-models/"}</script>
+    <script type="application/ld+json">{"@context":"https://schema.org","@type":"BlogPosting","headline":"Fine-tuning LokalBot’s four local models in 24 hours","description":"Stock open models struggled with Serbian notes, quiet dictation and inline autocomplete in LokalBot. I fine-tuned all four, ran follow-up passes to fix the first round’s regressions, and promoted them to LokalBot’s new defaults.","datePublished":"2026-11-21","dateModified":"2026-11-22","author":{"@type":"Person","name":"Stevan Bogosavljević"},"image":"https://stevan.bogosavljevic.me/blog/posts/fine-tuning-lokalbot-local-models/og.jpg","mainEntityOfPage":"https://stevan.bogosavljevic.me/blog/posts/fine-tuning-lokalbot-local-models/","url":"https://stevan.bogosavljevic.me/blog/posts/fine-tuning-lokalbot-local-models/"}</script>
   </body>
 </html>

diff --git a/blog/index.html b/blog/index.html
@@ -56,9 +56,9 @@
           <a class="note-card note-card--lead" href="posts/fine-tuning-lokalbot-local-models/">
             <figure class="note-thumb"><img src="posts/fine-tuning-lokalbot-local-models/og.jpg" alt="" width="1200" height="630" loading="eager" decoding="async" /></figure>
             <div>
-              <p class="note-meta">Nov 21, 2026 · AI, Engineering · 8 min read</p>
+              <p class="note-meta">Nov 22, 2026 · AI, Engineering · 9 min read</p>
               <h3>Fine-tuning LokalBot’s four local models in 24 hours</h3>
-              <p class="note-excerpt">Stock open models struggled with Serbian notes, quiet dictation and inline autocomplete. I fine-tuned all four local models over a day and published the Apache-2.0 weights, along with what got worse.</p>
+              <p class="note-excerpt">Stock open models struggled with Serbian notes, quiet dictation and inline autocomplete. I fine-tuned all four, ran follow-up passes to fix the first round’s regressions, and promoted them to LokalBot’s new defaults.</p>
             </div>
           </a>
           <a class="note-card" href="posts/bun-1-3-vs-1-4-in-production/">
